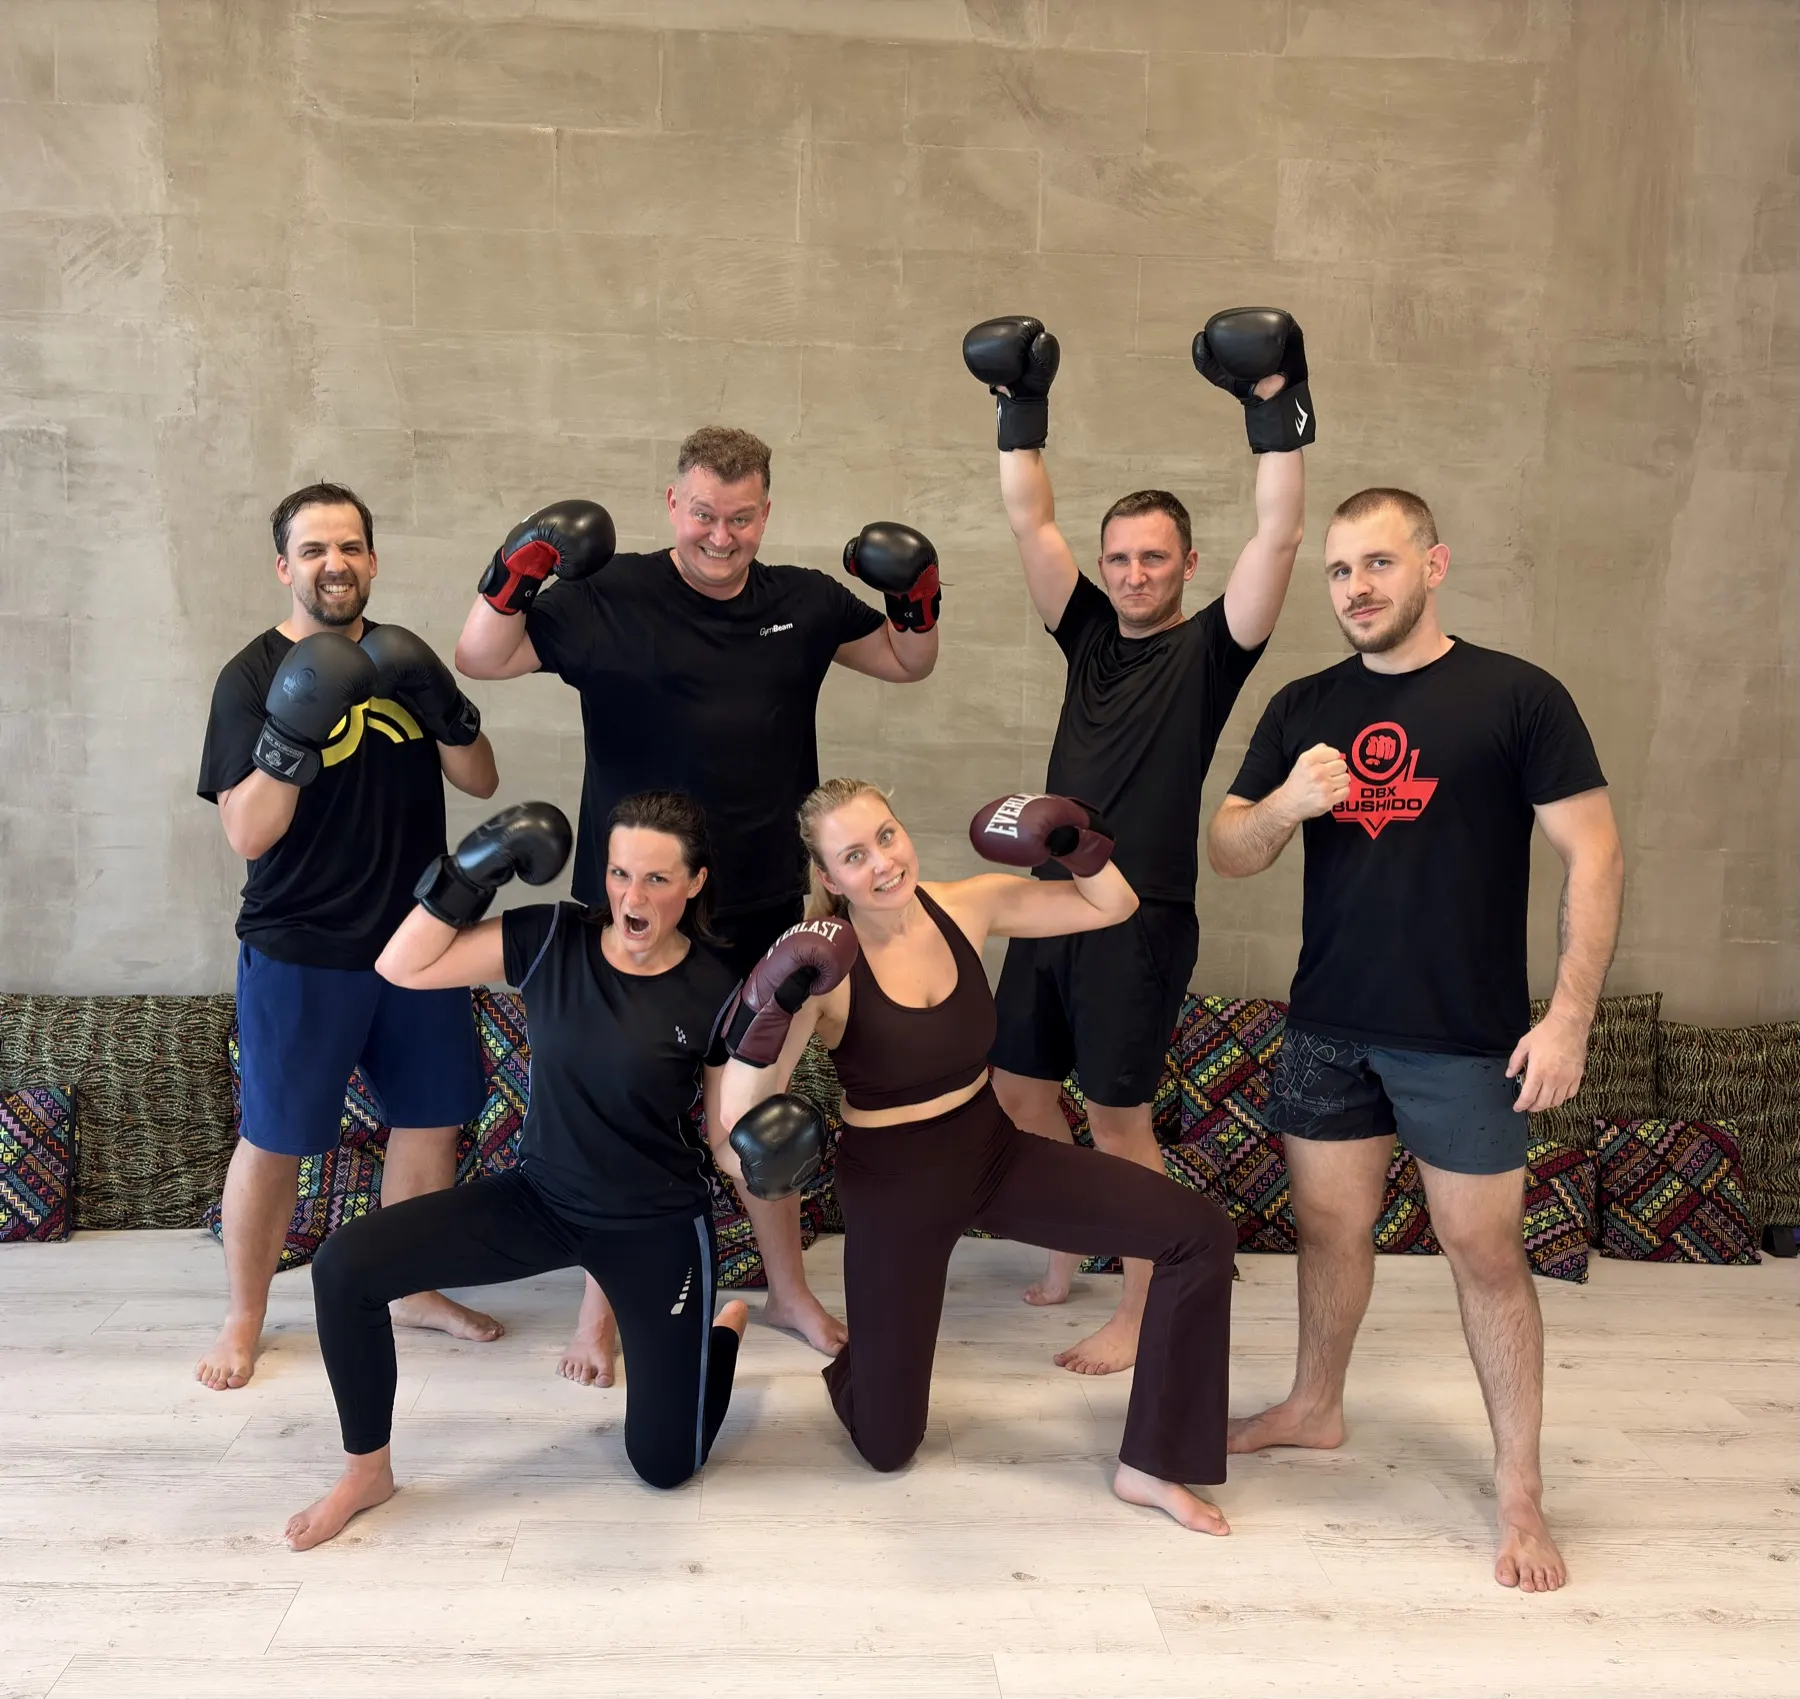
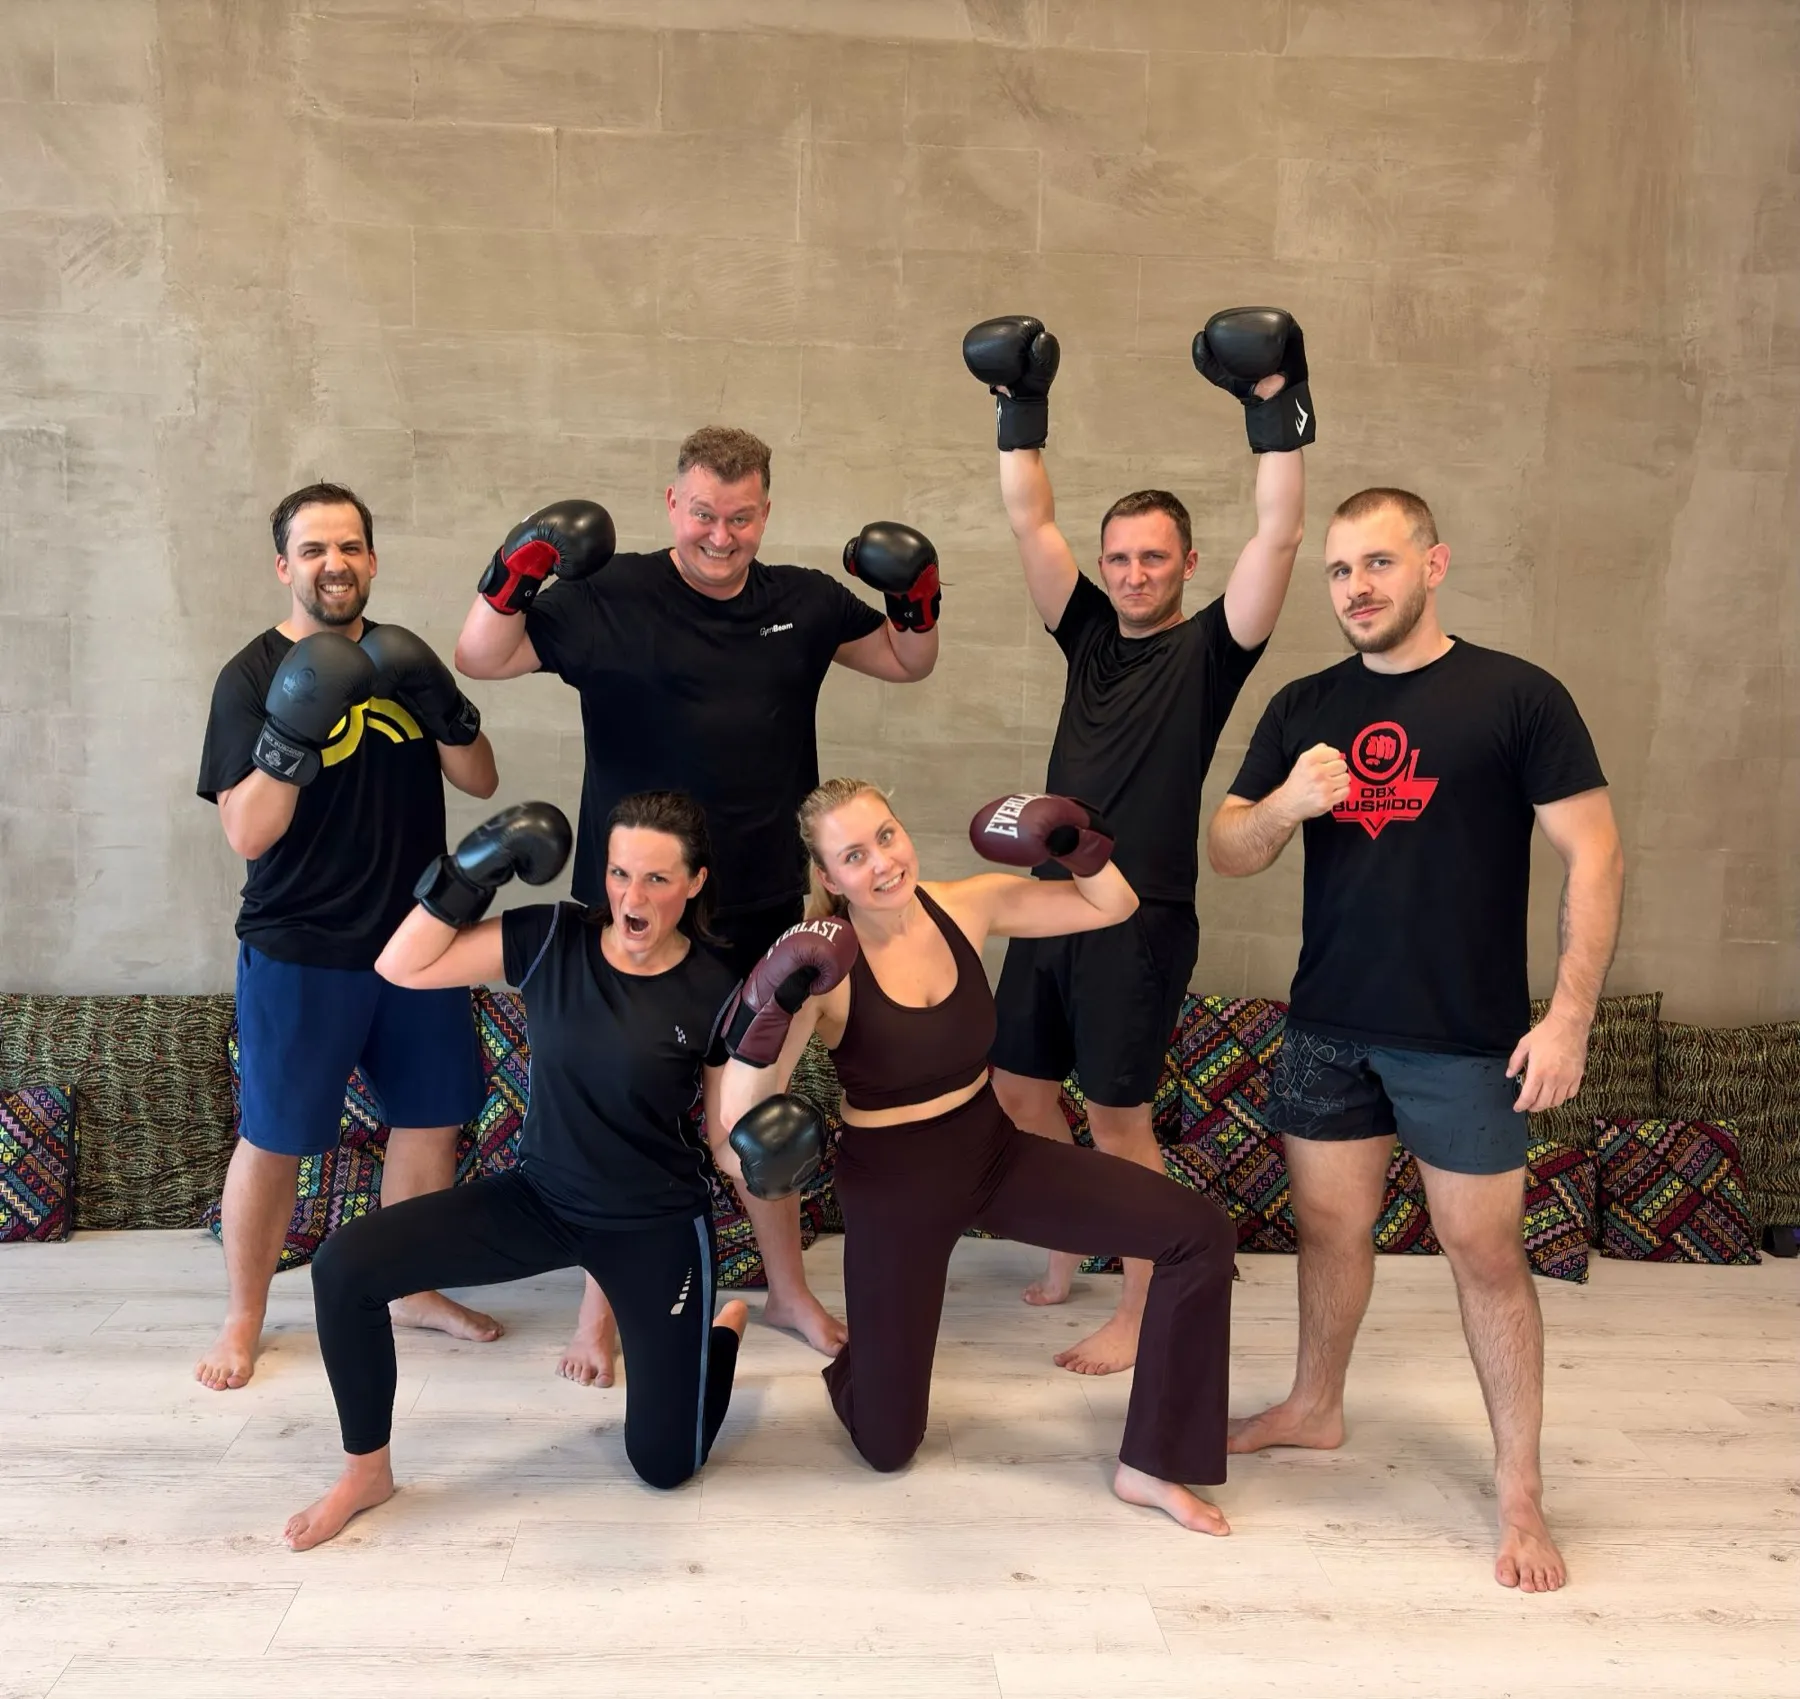
Odświeżenie podglądu

diff --git a/index.html b/index.html
@@ -17,7 +17,7 @@
 <link rel="preconnect" href="https://fonts.googleapis.com">
 <link rel="preconnect" href="https://fonts.gstatic.com" crossorigin>
 <link href="https://fonts.googleapis.com/css2?family=Barlow+Semi+Condensed:ital,wght@0,500;0,600;0,700;1,500&family=Montserrat:ital,wght@0,400;0,500;0,600;0,700;1,400&display=swap" rel="stylesheet">
-<link rel="stylesheet" href="assets/styl.css?v=1790765906">
+<link rel="stylesheet" href="assets/styl.css?v=1790766107">
 </head>
 <body class="">
 <header class="naglowek">
@@ -550,6 +550,6 @@ Ps. Polecam mega kursy z Kami, mega pozytywna osoba która zaraża swoją pasją
 
 
 
-<script src="assets/main.js?v=1790765906" defer></script>
+<script src="assets/main.js?v=1790766107" defer></script>
 <div class="podglad-pasek">Podgląd nowej strony ART Sztuka Ruchu — formularze zadziałają po publikacji</div></body>
 </html>

diff --git a/o-nas.html b/o-nas.html
@@ -17,7 +17,7 @@
 <link rel="preconnect" href="https://fonts.googleapis.com">
 <link rel="preconnect" href="https://fonts.gstatic.com" crossorigin>
 <link href="https://fonts.googleapis.com/css2?family=Barlow+Semi+Condensed:ital,wght@0,500;0,600;0,700;1,500&family=Montserrat:ital,wght@0,400;0,500;0,600;0,700;1,400&display=swap" rel="stylesheet">
-<link rel="stylesheet" href="assets/styl.css?v=1790765906">
+<link rel="stylesheet" href="assets/styl.css?v=1790766107">
 </head>
 <body class="st-onas">
 <header class="naglowek">
@@ -205,6 +205,6 @@
 
 
 
-<script src="assets/main.js?v=1790765906" defer></script>
+<script src="assets/main.js?v=1790766107" defer></script>
 <div class="podglad-pasek">Podgląd nowej strony ART Sztuka Ruchu — formularze zadziałają po publikacji</div></body>
 </html>

diff --git a/abc-oddechu-warsztaty-oddechu-od-podstaw-ze-sniadaniem.html b/abc-oddechu-warsztaty-oddechu-od-podstaw-ze-sniadaniem.html
@@ -17,7 +17,7 @@
 <link rel="preconnect" href="https://fonts.googleapis.com">
 <link rel="preconnect" href="https://fonts.gstatic.com" crossorigin>
 <link href="https://fonts.googleapis.com/css2?family=Barlow+Semi+Condensed:ital,wght@0,500;0,600;0,700;1,500&family=Montserrat:ital,wght@0,400;0,500;0,600;0,700;1,400&display=swap" rel="stylesheet">
-<link rel="stylesheet" href="assets/styl.css?v=1790765906">
+<link rel="stylesheet" href="assets/styl.css?v=1790766107">
 </head>
 <body class="">
 <header class="naglowek">
@@ -497,6 +497,6 @@
 
 
 
-<script src="assets/main.js?v=1790765906" defer></script>
+<script src="assets/main.js?v=1790766107" defer></script>
 <div class="podglad-pasek">Podgląd nowej strony ART Sztuka Ruchu — formularze zadziałają po publikacji</div></body>
 </html>

diff --git a/afrovibe-za-nami-afryka-na-wlasnej-skorze.html b/afrovibe-za-nami-afryka-na-wlasnej-skorze.html
@@ -17,7 +17,7 @@
 <link rel="preconnect" href="https://fonts.googleapis.com">
 <link rel="preconnect" href="https://fonts.gstatic.com" crossorigin>
 <link href="https://fonts.googleapis.com/css2?family=Barlow+Semi+Condensed:ital,wght@0,500;0,600;0,700;1,500&family=Montserrat:ital,wght@0,400;0,500;0,600;0,700;1,400&display=swap" rel="stylesheet">
-<link rel="stylesheet" href="assets/styl.css?v=1790765906">
+<link rel="stylesheet" href="assets/styl.css?v=1790766107">
 </head>
 <body class="">
 <header class="naglowek">
@@ -213,6 +213,6 @@
 
 
 
-<script src="assets/main.js?v=1790765906" defer></script>
+<script src="assets/main.js?v=1790766107" defer></script>
 <div class="podglad-pasek">Podgląd nowej strony ART Sztuka Ruchu — formularze zadziałają po publikacji</div></body>
 </html>

diff --git a/aktualnosci.html b/aktualnosci.html
@@ -17,7 +17,7 @@
 <link rel="preconnect" href="https://fonts.googleapis.com">
 <link rel="preconnect" href="https://fonts.gstatic.com" crossorigin>
 <link href="https://fonts.googleapis.com/css2?family=Barlow+Semi+Condensed:ital,wght@0,500;0,600;0,700;1,500&family=Montserrat:ital,wght@0,400;0,500;0,600;0,700;1,400&display=swap" rel="stylesheet">
-<link rel="stylesheet" href="assets/styl.css?v=1790765906">
+<link rel="stylesheet" href="assets/styl.css?v=1790766107">
 </head>
 <body class="">
 <header class="naglowek">
@@ -135,6 +135,6 @@
 
 
 
-<script src="assets/main.js?v=1790765906" defer></script>
+<script src="assets/main.js?v=1790766107" defer></script>
 <div class="podglad-pasek">Podgląd nowej strony ART Sztuka Ruchu — formularze zadziałają po publikacji</div></body>
 </html>

diff --git a/cennik.html b/cennik.html
@@ -17,7 +17,7 @@
 <link rel="preconnect" href="https://fonts.googleapis.com">
 <link rel="preconnect" href="https://fonts.gstatic.com" crossorigin>
 <link href="https://fonts.googleapis.com/css2?family=Barlow+Semi+Condensed:ital,wght@0,500;0,600;0,700;1,500&family=Montserrat:ital,wght@0,400;0,500;0,600;0,700;1,400&display=swap" rel="stylesheet">
-<link rel="stylesheet" href="assets/styl.css?v=1790765906">
+<link rel="stylesheet" href="assets/styl.css?v=1790766107">
 </head>
 <body class="">
 <header class="naglowek">
@@ -258,6 +258,6 @@
 
 
 
-<script src="assets/main.js?v=1790765906" defer></script>
+<script src="assets/main.js?v=1790766107" defer></script>
 <div class="podglad-pasek">Podgląd nowej strony ART Sztuka Ruchu — formularze zadziałają po publikacji</div></body>
 </html>

diff --git a/dyniowe-conscious-party-koncert-handpanowy.html b/dyniowe-conscious-party-koncert-handpanowy.html
@@ -17,7 +17,7 @@
 <link rel="preconnect" href="https://fonts.googleapis.com">
 <link rel="preconnect" href="https://fonts.gstatic.com" crossorigin>
 <link href="https://fonts.googleapis.com/css2?family=Barlow+Semi+Condensed:ital,wght@0,500;0,600;0,700;1,500&family=Montserrat:ital,wght@0,400;0,500;0,600;0,700;1,400&display=swap" rel="stylesheet">
-<link rel="stylesheet" href="assets/styl.css?v=1790765906">
+<link rel="stylesheet" href="assets/styl.css?v=1790766107">
 </head>
 <body class="">
 <header class="naglowek">
@@ -174,6 +174,6 @@
 
 
 
-<script src="assets/main.js?v=1790765906" defer></script>
+<script src="assets/main.js?v=1790766107" defer></script>
 <div class="podglad-pasek">Podgląd nowej strony ART Sztuka Ruchu — formularze zadziałają po publikacji</div></body>
 </html>

diff --git a/dzien-otwarty-juz-23-sierpnia.html b/dzien-otwarty-juz-23-sierpnia.html
@@ -17,7 +17,7 @@
 <link rel="preconnect" href="https://fonts.googleapis.com">
 <link rel="preconnect" href="https://fonts.gstatic.com" crossorigin>
 <link href="https://fonts.googleapis.com/css2?family=Barlow+Semi+Condensed:ital,wght@0,500;0,600;0,700;1,500&family=Montserrat:ital,wght@0,400;0,500;0,600;0,700;1,400&display=swap" rel="stylesheet">
-<link rel="stylesheet" href="assets/styl.css?v=1790765906">
+<link rel="stylesheet" href="assets/styl.css?v=1790766107">
 </head>
 <body class="">
 <header class="naglowek">
@@ -219,6 +219,6 @@
 
 
 
-<script src="assets/main.js?v=1790765906" defer></script>
+<script src="assets/main.js?v=1790766107" defer></script>
 <div class="podglad-pasek">Podgląd nowej strony ART Sztuka Ruchu — formularze zadziałają po publikacji</div></body>
 </html>

diff --git a/dzien-otwarty-juz-7-8-grudnia.html b/dzien-otwarty-juz-7-8-grudnia.html
@@ -17,7 +17,7 @@
 <link rel="preconnect" href="https://fonts.googleapis.com">
 <link rel="preconnect" href="https://fonts.gstatic.com" crossorigin>
 <link href="https://fonts.googleapis.com/css2?family=Barlow+Semi+Condensed:ital,wght@0,500;0,600;0,700;1,500&family=Montserrat:ital,wght@0,400;0,500;0,600;0,700;1,400&display=swap" rel="stylesheet">
-<link rel="stylesheet" href="assets/styl.css?v=1790765906">
+<link rel="stylesheet" href="assets/styl.css?v=1790766107">
 </head>
 <body class="">
 <header class="naglowek">
@@ -183,6 +183,6 @@
 
 
 
-<script src="assets/main.js?v=1790765906" defer></script>
+<script src="assets/main.js?v=1790766107" defer></script>
 <div class="podglad-pasek">Podgląd nowej strony ART Sztuka Ruchu — formularze zadziałają po publikacji</div></body>
 </html>

diff --git a/filmy.html b/filmy.html
@@ -17,7 +17,7 @@
 <link rel="preconnect" href="https://fonts.googleapis.com">
 <link rel="preconnect" href="https://fonts.gstatic.com" crossorigin>
 <link href="https://fonts.googleapis.com/css2?family=Barlow+Semi+Condensed:ital,wght@0,500;0,600;0,700;1,500&family=Montserrat:ital,wght@0,400;0,500;0,600;0,700;1,400&display=swap" rel="stylesheet">
-<link rel="stylesheet" href="assets/styl.css?v=1790765906">
+<link rel="stylesheet" href="assets/styl.css?v=1790766107">
 </head>
 <body class="">
 <header class="naglowek">
@@ -146,6 +146,6 @@
 
 
 
-<script src="assets/main.js?v=1790765906" defer></script>
+<script src="assets/main.js?v=1790766107" defer></script>
 <div class="podglad-pasek">Podgląd nowej strony ART Sztuka Ruchu — formularze zadziałają po publikacji</div></body>
 </html>

diff --git a/gabinet.html b/gabinet.html
@@ -17,7 +17,7 @@
 <link rel="preconnect" href="https://fonts.googleapis.com">
 <link rel="preconnect" href="https://fonts.gstatic.com" crossorigin>
 <link href="https://fonts.googleapis.com/css2?family=Barlow+Semi+Condensed:ital,wght@0,500;0,600;0,700;1,500&family=Montserrat:ital,wght@0,400;0,500;0,600;0,700;1,400&display=swap" rel="stylesheet">
-<link rel="stylesheet" href="assets/styl.css?v=1790765906">
+<link rel="stylesheet" href="assets/styl.css?v=1790766107">
 </head>
 <body class="">
 <header class="naglowek">
@@ -269,6 +269,6 @@
 
 
 
-<script src="assets/main.js?v=1790765906" defer></script>
+<script src="assets/main.js?v=1790766107" defer></script>
 <div class="podglad-pasek">Podgląd nowej strony ART Sztuka Ruchu — formularze zadziałają po publikacji</div></body>
 </html>

diff --git a/grafik-zajec.html b/grafik-zajec.html
@@ -17,7 +17,7 @@
 <link rel="preconnect" href="https://fonts.googleapis.com">
 <link rel="preconnect" href="https://fonts.gstatic.com" crossorigin>
 <link href="https://fonts.googleapis.com/css2?family=Barlow+Semi+Condensed:ital,wght@0,500;0,600;0,700;1,500&family=Montserrat:ital,wght@0,400;0,500;0,600;0,700;1,400&display=swap" rel="stylesheet">
-<link rel="stylesheet" href="assets/styl.css?v=1790765906">
+<link rel="stylesheet" href="assets/styl.css?v=1790766107">
 </head>
 <body class="">
 <header class="naglowek">
@@ -118,6 +118,6 @@
 
 
 
-<script src="assets/main.js?v=1790765906" defer></script>
+<script src="assets/main.js?v=1790766107" defer></script>
 <div class="podglad-pasek">Podgląd nowej strony ART Sztuka Ruchu — formularze zadziałają po publikacji</div></body>
 </html>
